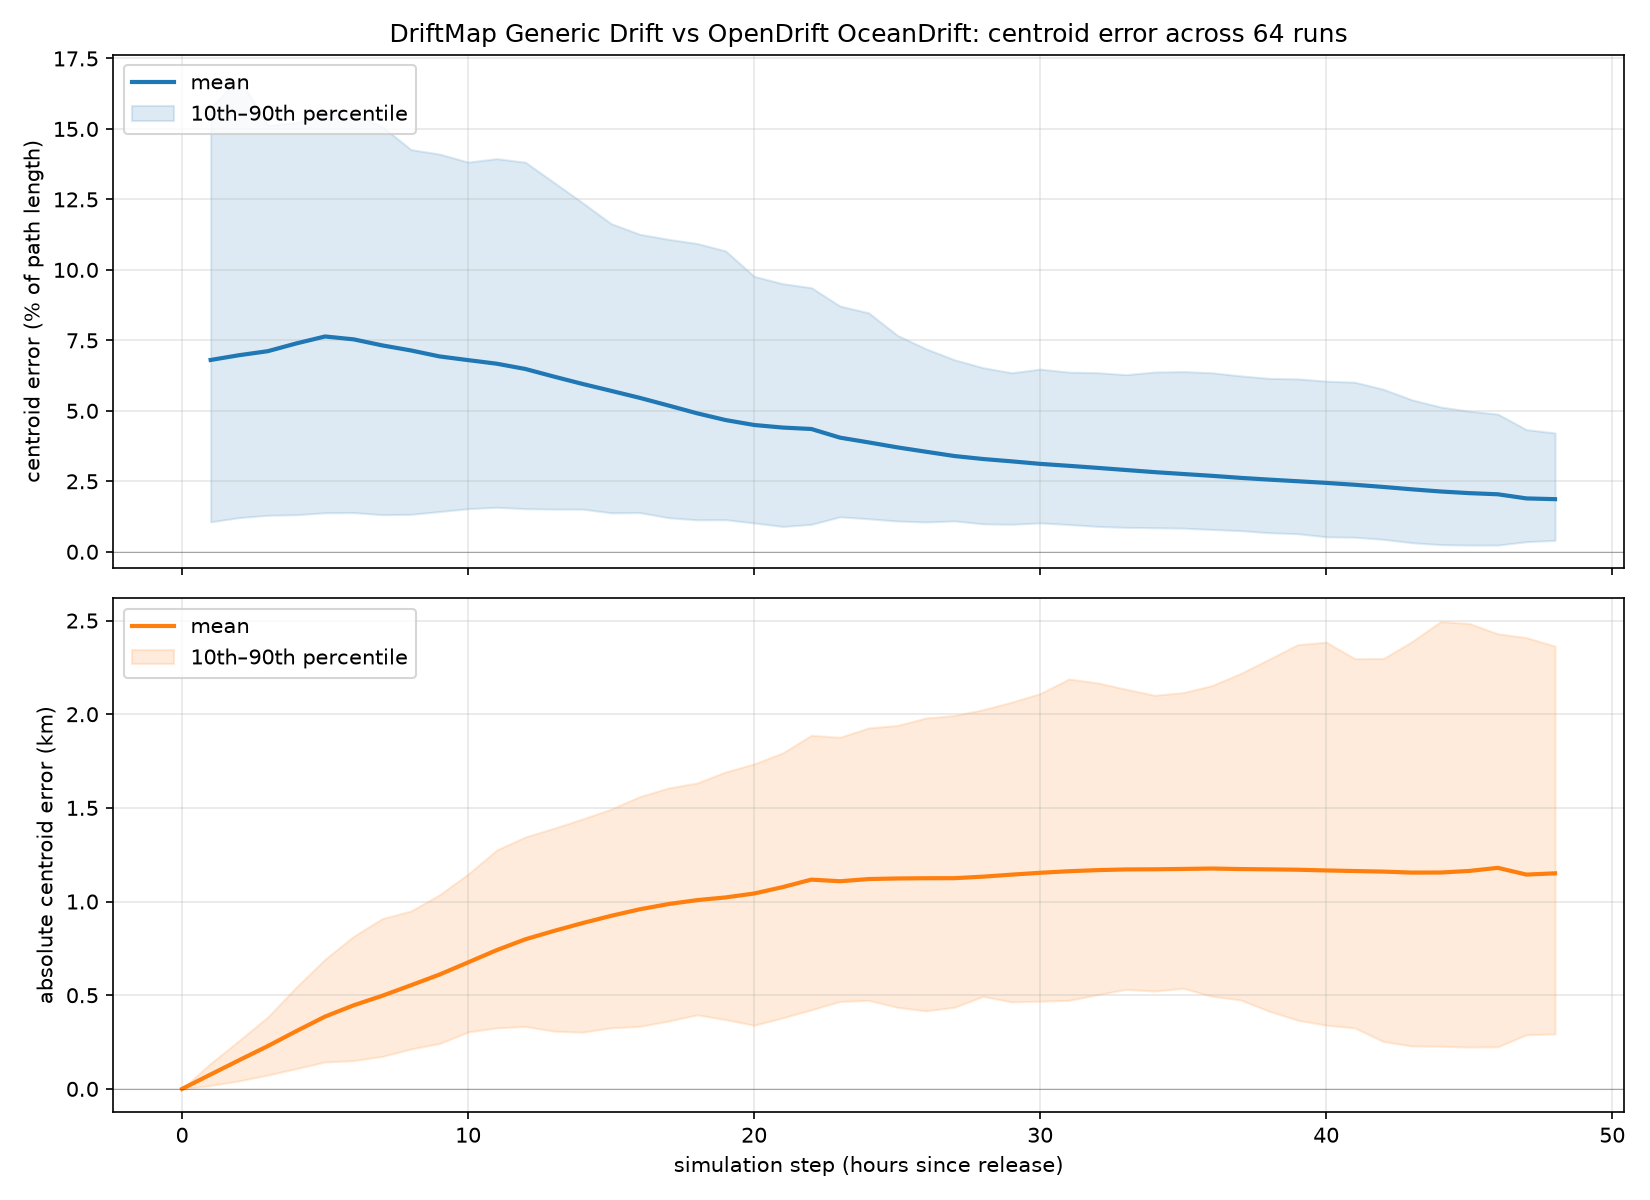
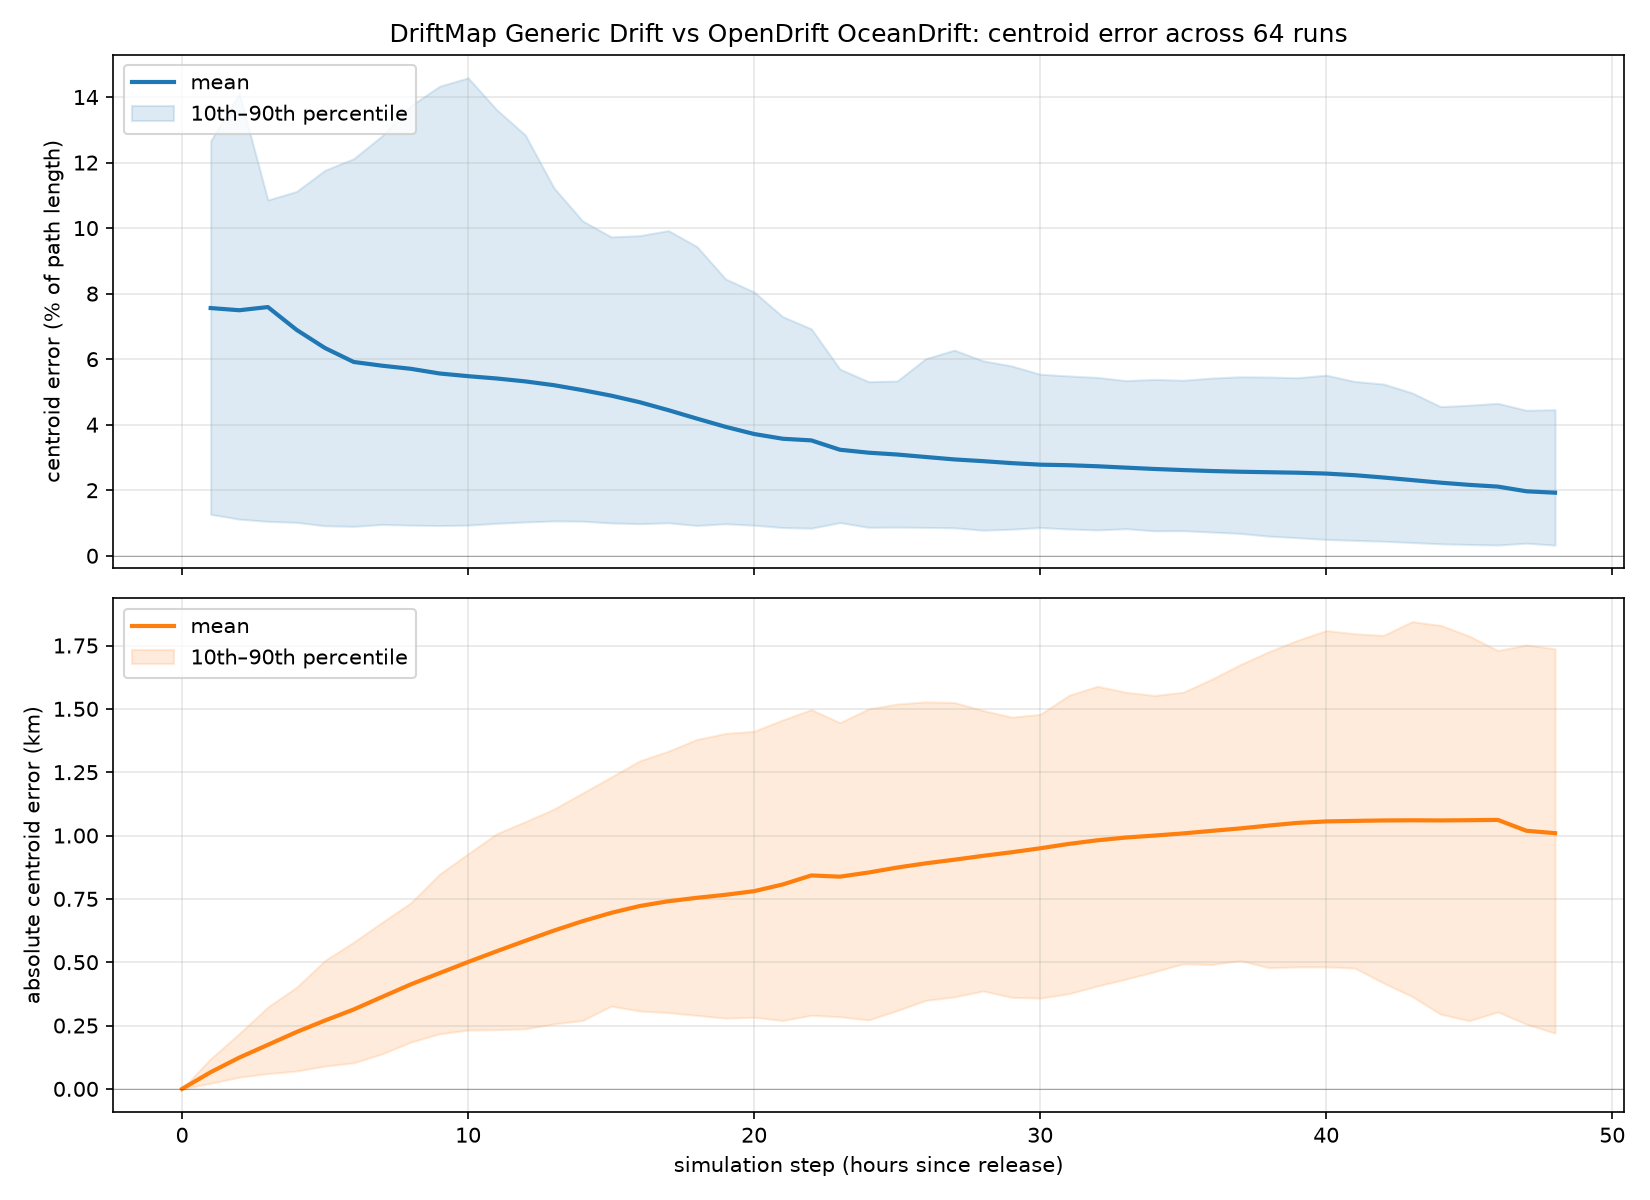
implemented hamilton largest remainder method for partitioning particles per release as well as cumulative particle count tracking for each release to ensure particle count always adds to user-specified amount without floating-point drift

diff --git a/crates/proteus-core/src/basemodel/release_manager.rs b/crates/proteus-core/src/basemodel/release_manager.rs
@@ -3,15 +3,24 @@ use rand::{rngs::ThreadRng, thread_rng};
 use rand_distr::{Distribution, Normal};
 use serde::Deserialize;
 
-const EPSILON: f32 = 1e-3;
-
 pub struct ReleaseManager {
     total_particles: usize,
     pub total_mass: f32,
     total_released: usize,
-    accumulated_fraction: f32,
     hours_per_step: f32,
     releases: Vec<Release>,
+
+    /// Number of particles allocated to each release (Hamilton method).
+    /// Sum equals total_particles.
+    release_allocations: Vec<usize>,
+
+    /// How many particles each release has already emitted.
+    /// Used to compute step_particles = target - released.
+    released_per_release: Vec<usize>,
+
+    /// Cumulative mass per release (amount × duration over all intervals).
+    release_total_amounts: Vec<f32>,
+
     rng: ThreadRng,
 }
 
@@ -32,7 +41,6 @@ struct Release {
 }
 
 #[derive(Debug, Deserialize)]
-
 struct Schedule {
     amount: f32,
     duration: f32,
@@ -40,71 +48,131 @@ struct Schedule {
 
 impl ReleaseManager {
     pub fn new(releases_json: &str, total_particles: usize, steps_per_day: u32) -> Self {
-        let releases: Vec<Release> = serde_json::from_str(releases_json).expect("invalid JSON!");
+        log::debug!("{total_particles}");
+        let releases: Vec<Release> =
+            serde_json::from_str(releases_json).expect("invalid JSON!");
         let total_mass: f32 = releases
             .iter()
-            .flat_map(|release| release.schedule.iter())
-            .map(|interval| interval.amount)
+            .flat_map(|r| r.schedule.iter())
+            .map(|iv| iv.amount)
             .sum();
         let hours_per_step = 24.0 / steps_per_day as f32;
 
+        let release_total_amounts: Vec<f32> = releases
+            .iter()
+            .map(|r| r.schedule.iter().map(|iv| iv.amount).sum())
+            .collect();
+
+        let raw_shares: Vec<f32> = release_total_amounts
+            .iter()
+            .map(|&m| m * total_particles as f32 / total_mass.max(1e-12))
+            .collect();
+        let bases: Vec<usize> = raw_shares.iter().map(|s| s.floor() as usize).collect();
+        let base_sum: usize = bases.iter().sum();
+        let remaining = total_particles.saturating_sub(base_sum);
+
+        let mut order: Vec<usize> = (0..releases.len()).collect();
+        order.sort_by(|&a, &b| {
+            let fa = raw_shares[a] - raw_shares[a].floor();
+            let fb = raw_shares[b] - raw_shares[b].floor();
+            fb.partial_cmp(&fa).unwrap_or(std::cmp::Ordering::Equal)
+        });
+
+        let mut release_allocations = bases;
+        for &idx in order.iter().take(remaining) {
+            release_allocations[idx] += 1;
+        }
+
+        let n = releases.len();
         Self {
             total_particles,
             total_mass,
             total_released: 0,
-            accumulated_fraction: 0.0,
             hours_per_step,
             releases,
+            release_allocations,
+            released_per_release: vec![0; n],
+            release_total_amounts,
             rng: thread_rng(),
         }
     }
 
+    fn cumulative_mass(&self, release: &Release, hours: f32) -> f32 {
+        let mut cumulative = 0.0;
+        let mut elapsed = 0.0;
+        for interval in release.schedule.iter() {
+            if hours < elapsed {
+                break;
+            }
+            if interval.duration <= 0.0 {
+                if hours >= elapsed {
+                    cumulative += interval.amount;
+                }
+            } else {
+                let covered = (hours - elapsed).min(interval.duration).max(0.0);
+                cumulative += interval.amount * (covered / interval.duration);
+            }
+            elapsed += interval.duration;
+        }
+        cumulative
+    }
+
     pub fn update(&mut self, step_count: u32) -> Vec<ParticleSeed> {
         let mut seeds = Vec::with_capacity(self.total_particles);
-        let hours = self.hours_per_step * step_count as f32;
-        for release in self.releases.iter() {
-            let hour_index = if hours == 0.0 { 0 } else {
-                match release
-                .schedule
-                .iter()
-                .scan(0.0, |acc, interval| {
-                    *acc += interval.duration;
-                    Some(*acc)
-                })
-                .position(|cumulative| hours < cumulative)
-            {
-                Some(index) => index,
-                None => continue
-            }};
-            let amount = release.schedule[hour_index].amount;
-            let duration = release.schedule[hour_index].duration;
-            let seed_mass = 
-                if duration >= self.hours_per_step { self.hours_per_step * amount / duration } else { amount };
+        let hours = self.hours_per_step * (step_count + 1) as f32;
 
-            let mut seed_particles = seed_mass * self.total_particles as f32 / self.total_mass;
-            
-            self.accumulated_fraction += seed_particles - seed_particles.floor();
-            if self.accumulated_fraction >= 1.0 - EPSILON {
-                seed_particles += 1.0;
-                self.accumulated_fraction -= 1.0;
+        for (i, release) in self.releases.iter().enumerate() {
+            if self.total_released >= self.total_particles {
+                break;
             }
-            
+            if self.released_per_release[i] >= self.release_allocations[i] {
+                continue;
+            }
+
+            let cumulative_amount = self.cumulative_mass(release, hours);
+            if cumulative_amount <= 0.0 {
+                continue;
+            }
+            let release_total = self.release_total_amounts[i];
+            if release_total <= 0.0 {
+                continue;
+            }
+
+            let target_float = self.release_allocations[i] as f32
+                * (cumulative_amount / release_total);
+            let target_int = (target_float.floor() as usize)
+                .min(self.release_allocations[i])
+                .min(self.total_particles - self.total_released + self.released_per_release[i]);
+
+            let step_particles = target_int.saturating_sub(self.released_per_release[i]);
+            if step_particles == 0 {
+                continue;
+            }
+
+            let mass_per_particle = release_total / self.release_allocations[i] as f32;
+
             let normal = Normal::new(0.0, release.radius).unwrap();
             let release_seeds = seed(
-                seed_particles as usize,
+                step_particles,
                 release,
                 normal,
                 &mut self.rng,
-                self.total_mass / self.total_particles as f32,
+                mass_per_particle,
             );
-            self.total_released += seed_particles as usize;
+
+            self.released_per_release[i] = target_int;
+            self.total_released += step_particles;
             seeds.extend(release_seeds);
         }
         seeds
     }
 
     pub fn initial_mass_per_particle(&self) -> f32 {
-        self.total_mass / self.total_particles as f32
+        self.total_mass / self.total_particles.max(1) as f32
+    }
+
+    pub fn total_released(&self) -> usize {
+        self.total_released
     }
 }
 

diff --git a/validation/generic/run_models.py b/validation/generic/run_models.py
@@ -50,7 +50,6 @@ CLI_BIN = Path("../../target/release/proteus.exe")   # Windows
 CLI_STEPS = DURATION_HOURS * (3600 // TIME_STEP_SECONDS)
 CLI_TIME_STEP_MINUTES = TIME_STEP_SECONDS / 60.0
 
-# Same physics as the OpenDrift config
 WIND_FACTOR = 0.02
 WIND_DEFLECTION = 0.0
 
@@ -104,6 +103,7 @@ def run_opendrift(run_dir, release_lon, release_lat, reader_smoc, reader_wind):
         radius=0,
         number=N_PARTICLES,
         time=START_TIME,
+        wind_drift_factor=WIND_FACTOR
     )
 
     t0 = time.time()

diff --git a/crates/proteus-wasm/src/wasm.rs b/crates/proteus-wasm/src/wasm.rs
@@ -35,6 +35,9 @@ impl Proteus {
         diffusion_scheme: &str,
         diffusion_coeffs: Vec<f32>
     ) -> Self {
+        console_log::init_with_level(log::Level::Debug).ok();
+        console_error_panic_hook::set_once();
+
         let start_date = NaiveDateTime::parse_from_str(start_date_str, "%Y-%m-%d %H:%M")
             .expect("Invalid date format");
         let steps_per_day = (1440.0 / time_step_minutes) as u32;
